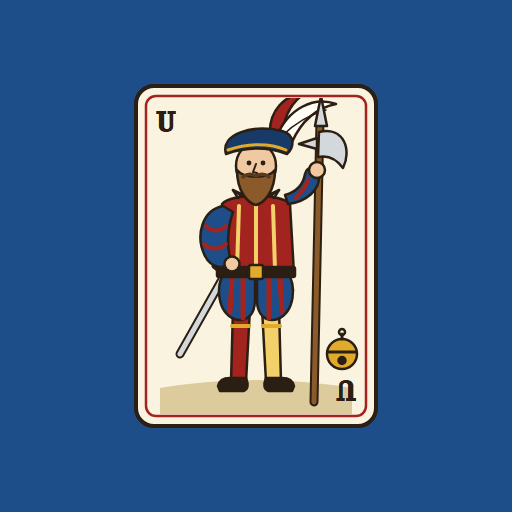
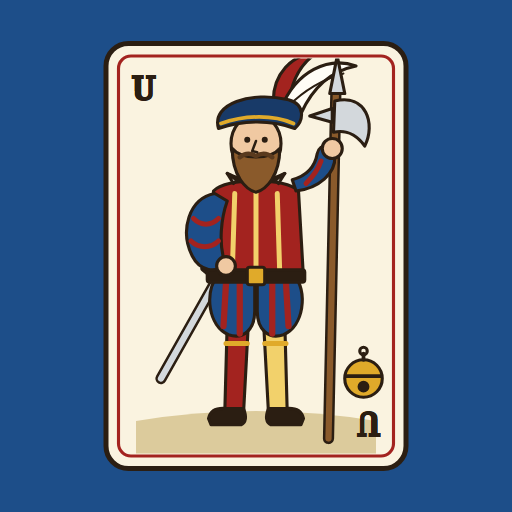
Add files via upload

diff --git a/sw.js b/sw.js
@@ -1,6 +1,6 @@
 'use strict';
 // Startet sofort aus dem Cache und holt im Hintergrund die neuste Version fuer den naechsten Start.
-const CACHE = 'jass-rechner-v5';
+const CACHE = 'jass-rechner-v6';
 const DATEIEN = ['./', './index.html', './manifest.webmanifest', './icon-192.png', './icon-512.png', './apple-touch-icon.png', './icon-maskable-512.png'];
 
 self.addEventListener('install', (ev) => {
